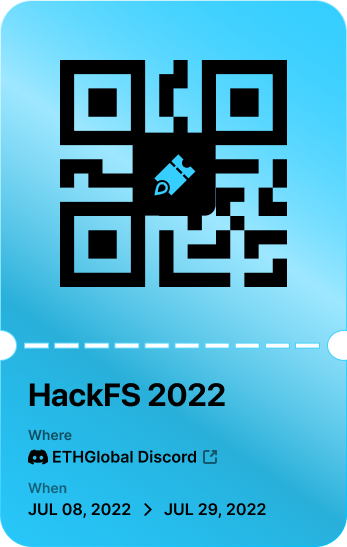
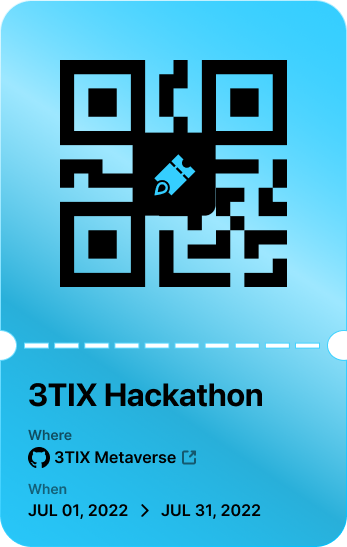
Update assets (#38)

diff --git a/ui/src/components/Icon/Icons.tsx b/ui/src/components/Icon/Icons.tsx
@@ -1,9 +1,9 @@
 import { createIcon, Icon, type IconProps } from "@chakra-ui/icons"
 
-export const DiscordIcon = createIcon({
-  displayName: "DiscordIcon",
-  viewBox: "0 0 20 15",
-  d: "M16.9307 1.74315C15.6557 1.16815 14.2891 0.743149 12.8599 0.501482C12.8472 0.499039 12.834 0.500613 12.8222 0.505988C12.8104 0.511363 12.8006 0.520272 12.7941 0.531482C12.6191 0.838982 12.4241 1.23982 12.2874 1.55648C10.7717 1.33001 9.23067 1.33001 7.71491 1.55648C7.56269 1.20553 7.39104 0.863335 7.20075 0.531482C7.1943 0.520134 7.18454 0.511023 7.17278 0.505365C7.16101 0.499707 7.1478 0.497771 7.13491 0.499815C5.70658 0.741482 4.33991 1.16648 3.06408 1.74232C3.0531 1.74692 3.0438 1.75477 3.03741 1.76482C0.444079 5.57732 -0.266754 9.29565 0.0824123 12.9673C0.0833839 12.9763 0.0861752 12.985 0.0906163 12.9929C0.0950575 13.0008 0.101056 13.0077 0.108246 13.0131C1.62191 14.1152 3.31019 14.9547 5.10241 15.4965C5.11491 15.5003 5.12827 15.5003 5.14076 15.4965C5.15324 15.4926 5.16428 15.485 5.17241 15.4748C5.55807 14.959 5.89983 14.4118 6.19408 13.839C6.19816 13.8312 6.20052 13.8225 6.20098 13.8137C6.20145 13.8049 6.20001 13.7961 6.19677 13.7879C6.19353 13.7796 6.18856 13.7722 6.1822 13.7661C6.17584 13.7599 6.16824 13.7553 6.15991 13.7523C5.62158 13.5496 5.09998 13.3049 4.59991 13.0206C4.59093 13.0155 4.58335 13.0082 4.57788 12.9995C4.5724 12.9907 4.56918 12.9807 4.56852 12.9704C4.56786 12.96 4.56978 12.9497 4.57409 12.9403C4.57841 12.9309 4.58499 12.9227 4.59325 12.9165C4.69825 12.839 4.80325 12.7582 4.90325 12.6773C4.91225 12.67 4.92309 12.6654 4.93457 12.6639C4.94604 12.6625 4.9577 12.6642 4.96825 12.669C8.24075 14.139 11.7849 14.139 15.0191 12.669C15.0297 12.6639 15.0414 12.662 15.0531 12.6633C15.0647 12.6646 15.0757 12.6692 15.0849 12.6765C15.1849 12.7581 15.2891 12.839 15.3949 12.9165C15.4033 12.9226 15.4099 12.9307 15.4144 12.94C15.4188 12.9493 15.4209 12.9596 15.4204 12.9699C15.4199 12.9802 15.4169 12.9903 15.4116 12.9991C15.4062 13.008 15.3988 13.0154 15.3899 13.0206C14.8916 13.3073 14.3732 13.5498 13.8291 13.7515C13.8207 13.7545 13.8131 13.7593 13.8067 13.7655C13.8004 13.7717 13.7954 13.7792 13.7922 13.7875C13.789 13.7958 13.7875 13.8047 13.788 13.8135C13.7885 13.8224 13.7908 13.8311 13.7949 13.839C14.0949 14.4115 14.4382 14.9565 14.8157 15.474C14.8236 15.4846 14.8345 15.4925 14.8471 15.4967C14.8596 15.5009 14.8731 15.5011 14.8857 15.4973C16.681 14.957 18.3721 14.1171 19.8874 13.0131C19.8948 13.008 19.901 13.0013 19.9056 12.9935C19.9102 12.9858 19.9131 12.9771 19.9141 12.9681C20.3307 8.72315 19.2157 5.03482 16.9566 1.76648C16.951 1.75586 16.9419 1.74758 16.9307 1.74315ZM6.68325 10.7315C5.69825 10.7315 4.88575 9.84065 4.88575 8.74815C4.88575 7.65482 5.68241 6.76481 6.68325 6.76481C7.69158 6.76481 8.49658 7.66232 8.48075 8.74815C8.48075 9.84148 7.68408 10.7315 6.68325 10.7315ZM13.3291 10.7315C12.3432 10.7315 11.5316 9.84065 11.5316 8.74815C11.5316 7.65482 12.3274 6.76481 13.3291 6.76481C14.3374 6.76481 15.1424 7.66232 15.1266 8.74815C15.1266 9.84148 14.3382 10.7315 13.3291 10.7315Z",
+export const GitHubIcon = createIcon({
+  displayName: "GitHub icon",
+  viewBox: "0 0 22 21",
+  d: "M11 0C4.92617 0 0 4.82023 0 10.7654C0 15.522 3.1515 19.5572 7.52308 20.981C8.07217 21.0805 8.25 20.7468 8.25 20.4633V18.4591C5.19017 19.1105 4.55308 17.1888 4.55308 17.1888C4.05258 15.9445 3.33117 15.6135 3.33117 15.6135C2.33292 14.9451 3.40725 14.9595 3.40725 14.9595C4.51183 15.0348 5.093 16.0692 5.093 16.0692C6.07383 17.7145 7.66608 17.2391 8.294 16.9636C8.39208 16.2684 8.67717 15.7929 8.9925 15.5247C6.54958 15.251 3.98108 14.3279 3.98108 10.2038C3.98108 9.02772 4.411 8.0678 5.11408 7.31422C5.00042 7.04239 4.62367 5.94701 5.22133 4.46497C5.22133 4.46497 6.14533 4.17609 8.24725 5.56843C9.1245 5.32979 10.065 5.21047 11 5.20599C11.935 5.21047 12.8764 5.32979 13.7555 5.56843C15.8556 4.17609 16.7777 4.46497 16.7777 4.46497C17.3763 5.94791 16.9996 7.04329 16.8859 7.31422C17.5917 8.0678 18.018 9.02862 18.018 10.2038C18.018 14.3387 15.4449 15.2493 12.9956 15.5157C13.3898 15.8494 13.75 16.5043 13.75 17.5091V20.4633C13.75 20.7495 13.926 21.0859 14.4842 20.9801C18.8522 19.5545 22 15.5202 22 10.7654C22 4.82023 17.0748 0 11 0Z",
 })
 
 export const RocketTicket = (props: IconProps) => {

diff --git a/ui/src/pages/CreateTickets/QRTicket.tsx b/ui/src/pages/CreateTickets/QRTicket.tsx
@@ -1,37 +1,37 @@
 import { Box, Button, Heading, HStack, Text } from "@chakra-ui/react"
 import { ExternalLinkIcon } from "@chakra-ui/icons"
-import { ArrowRight, DiscordIcon } from "../../components/Icon"
+import { ArrowRight, GitHubIcon } from "../../components/Icon"
 
 export const QRTicket = () => {
   return (
     <Box bgImage="assets/TicketBg.png" width={347} height={547}>
       <Box bgImage="assets/QrCodeMain.png" width={227} height={227} m="60px" />
       <Box mx={8} mt={20} color="black">
-        <Heading>HackFS 2022</Heading>
+        <Heading>3TIX Hackathon</Heading>
         <Text mt={2} color="subHeader">
           Where
         </Text>
         <Button
           variant="ghost"
           rightIcon={<ExternalLinkIcon />}
-          leftIcon={<DiscordIcon />}
+          leftIcon={<GitHubIcon />}
           p={0}
           height="auto"
           _hover={{ bg: "transparent" }}
           _active={{ bg: "transparent" }}
           as="a"
           target="_blank"
-          href="https://discord.gg/ethglobal-554623348622098432"
+          href="https://github.com/3TIX/event-management"
         >
-          ETHGlobal Discord
+          3TIX Metaverse
         </Button>
         <Text mt={2} color="subHeader">
           When
         </Text>
         <HStack spacing={1}>
-          <Text fontWeight={600}>JUL 08, 2022</Text>
+          <Text fontWeight={600}>JUL 01, 2022</Text>
           <ArrowRight color="black" height="12px" />
-          <Text fontWeight={600}>JUL 29, 2022</Text>
+          <Text fontWeight={600}>JUL 31, 2022</Text>
         </HStack>
       </Box>
     </Box>
